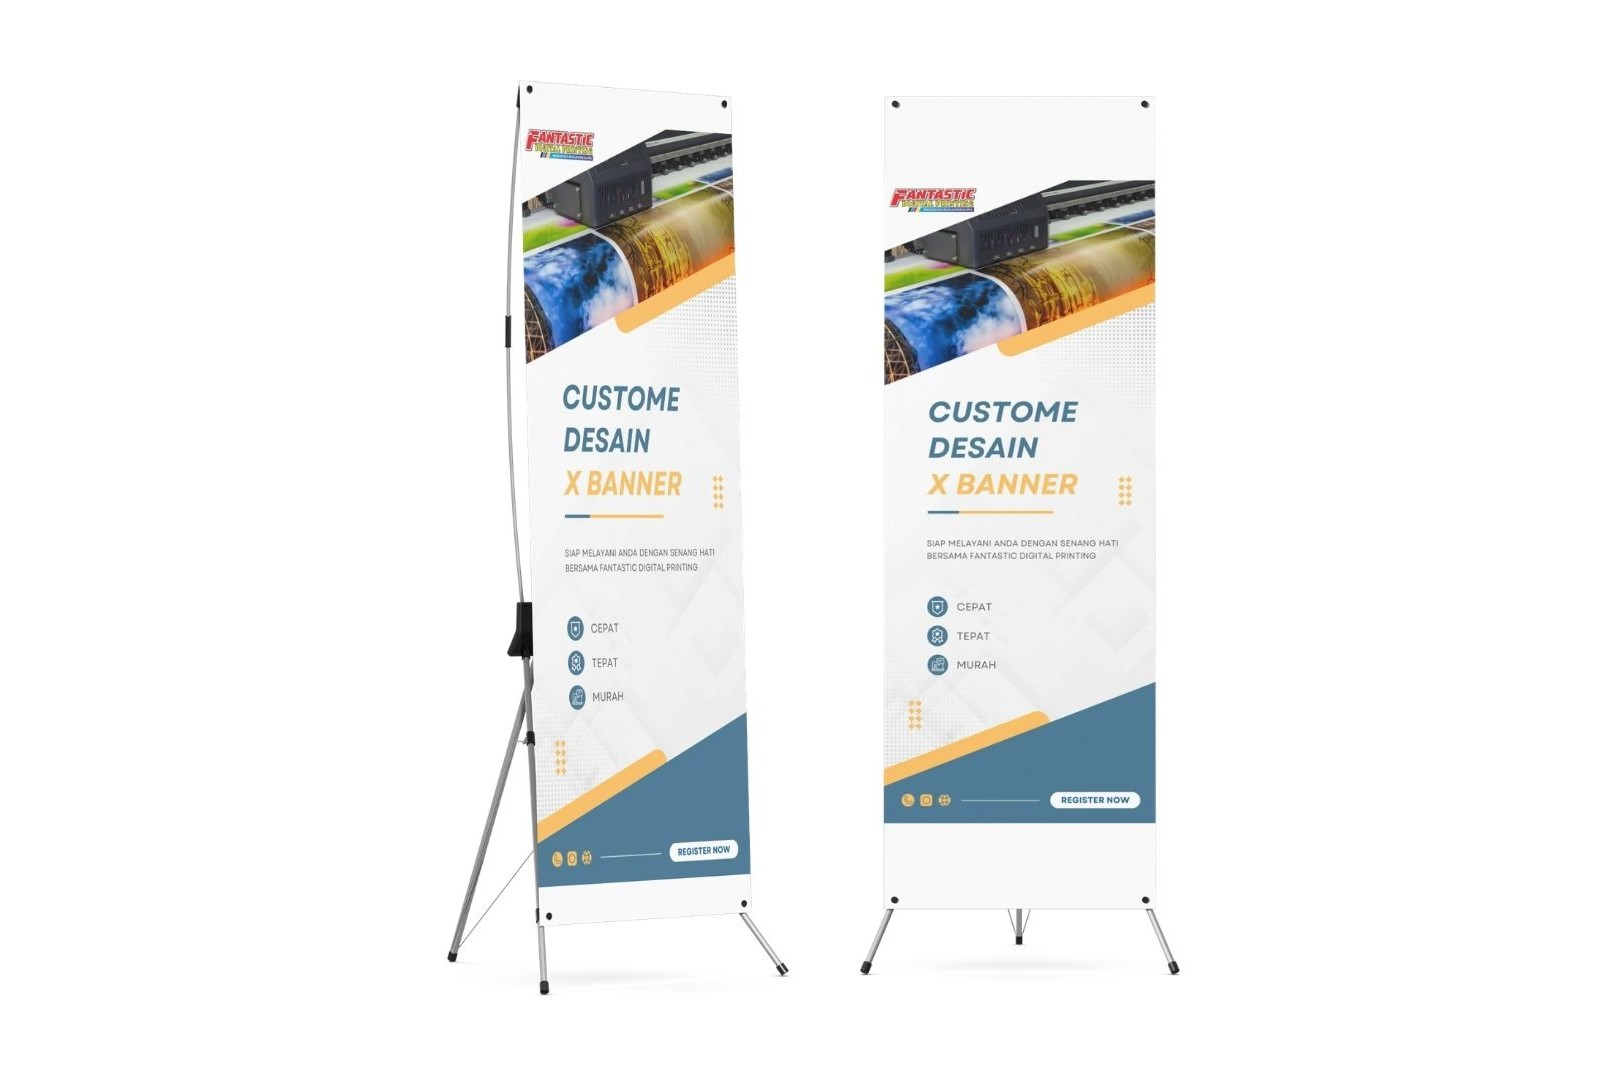
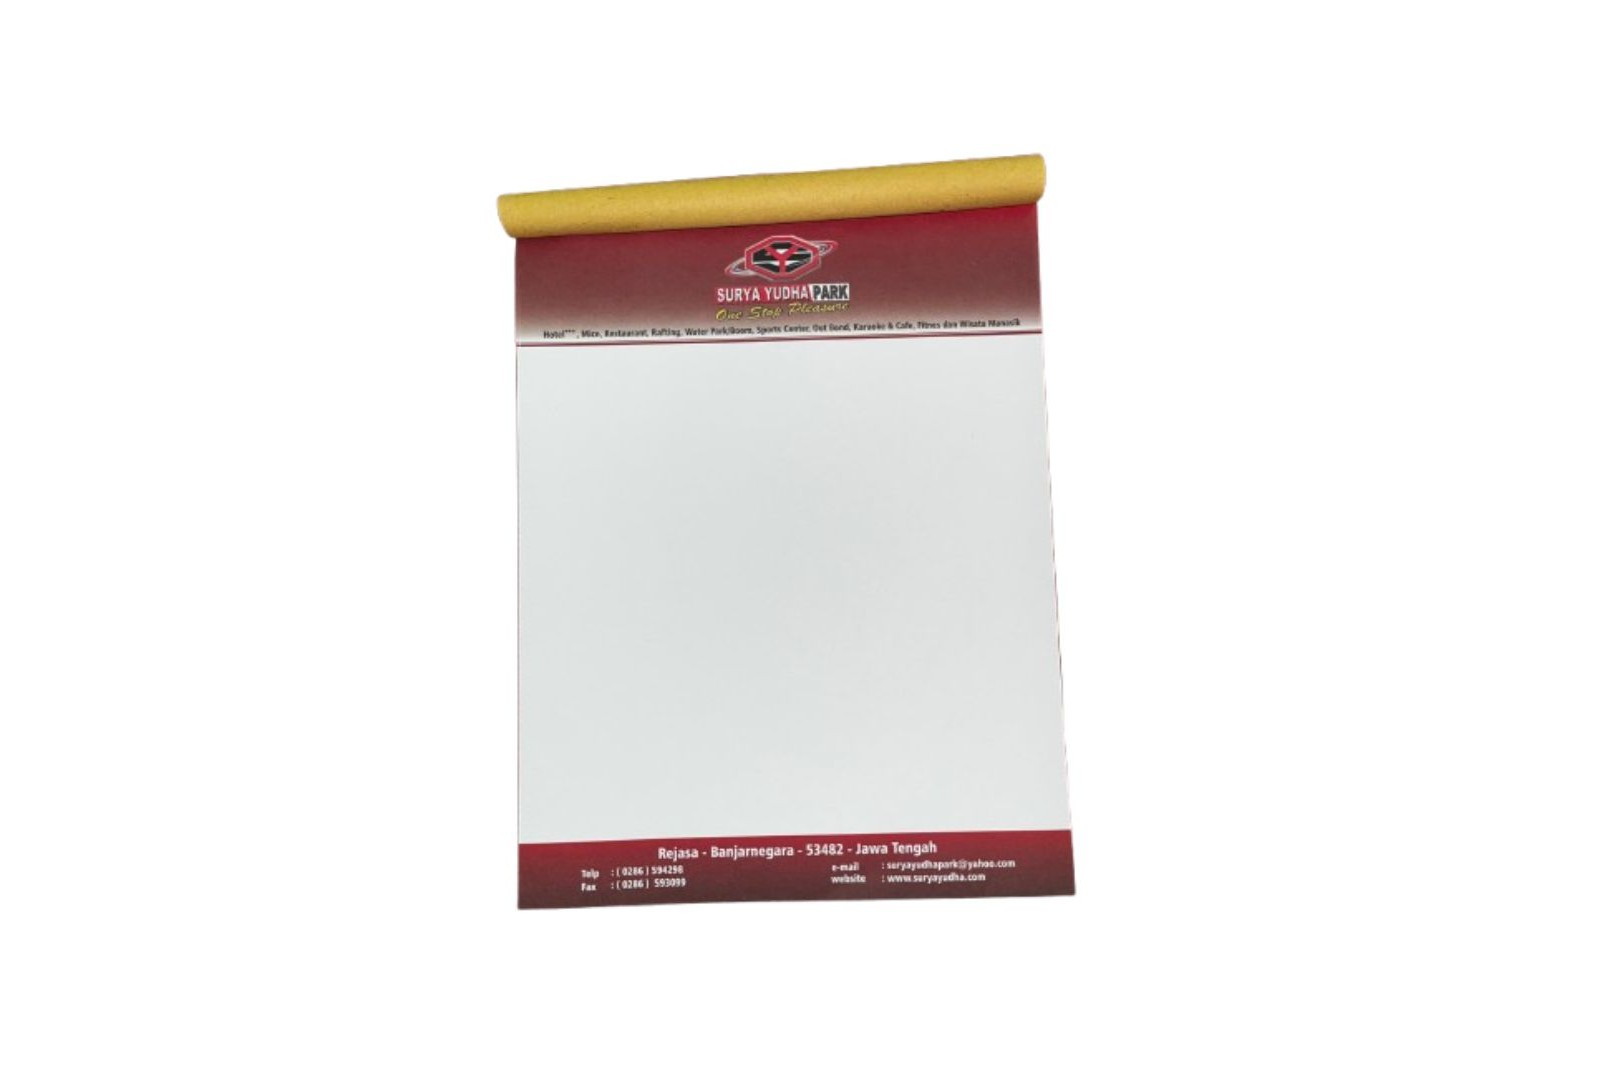
tambah

Changed region(s): [[0.2778, 0.0917, 0.7407, 0.9167], [0.7099, 0.8556, 0.7407, 0.9167]]

diff --git a/database/seeders/ProductSeeder.php b/database/seeders/ProductSeeder.php
@@ -132,8 +132,8 @@ class ProductSeeder extends Seeder
                 'updated_at' => now(),
             ],
             [
-                'name' => 'Buku Yasin Lengkap Hardcover Blusdru',
-                'slug' => 'buku-yasin-lengkap-hardcover-blusdru',
+                'name' => 'Buku Yasin Lengkap Hardcover Bludru',
+                'slug' => 'buku-yasin-lengkap-hardcover-bludru',
                 'sub_kategori_id' => 3,
                 'description' => 'Kertas Art Paper, Hardcover',
                 'price' => 30000,
